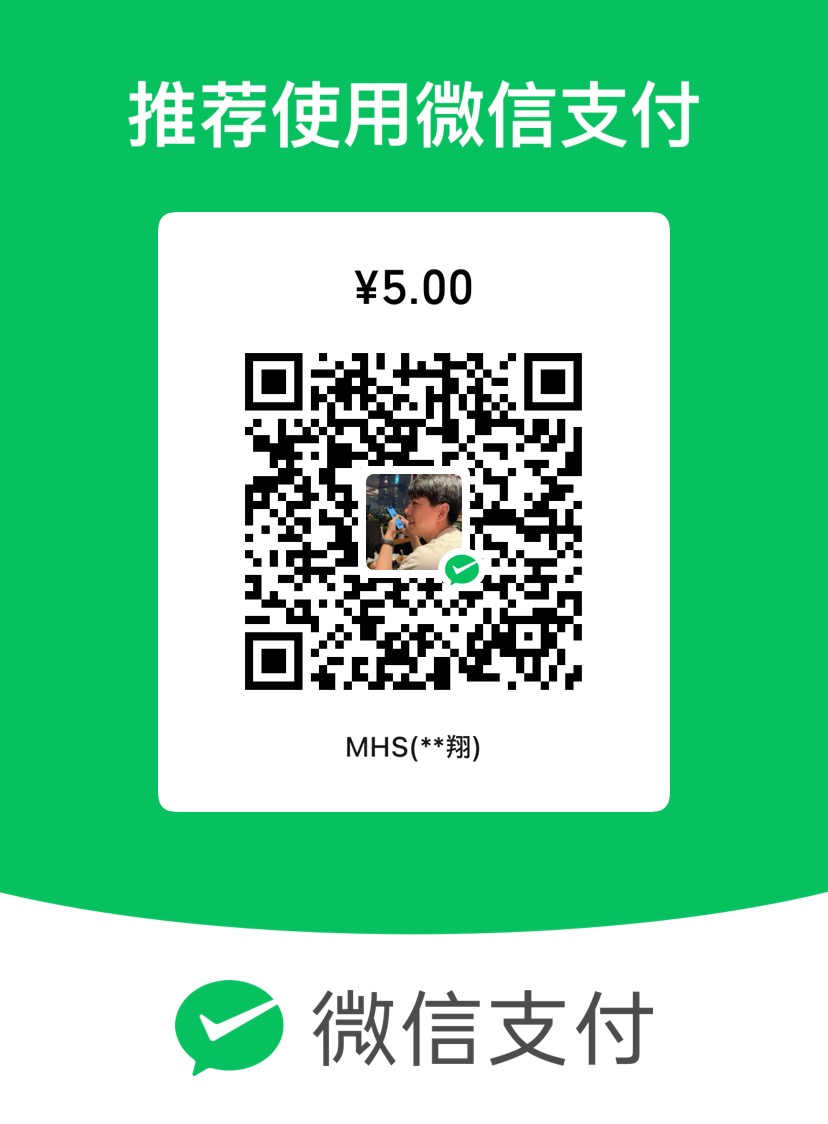
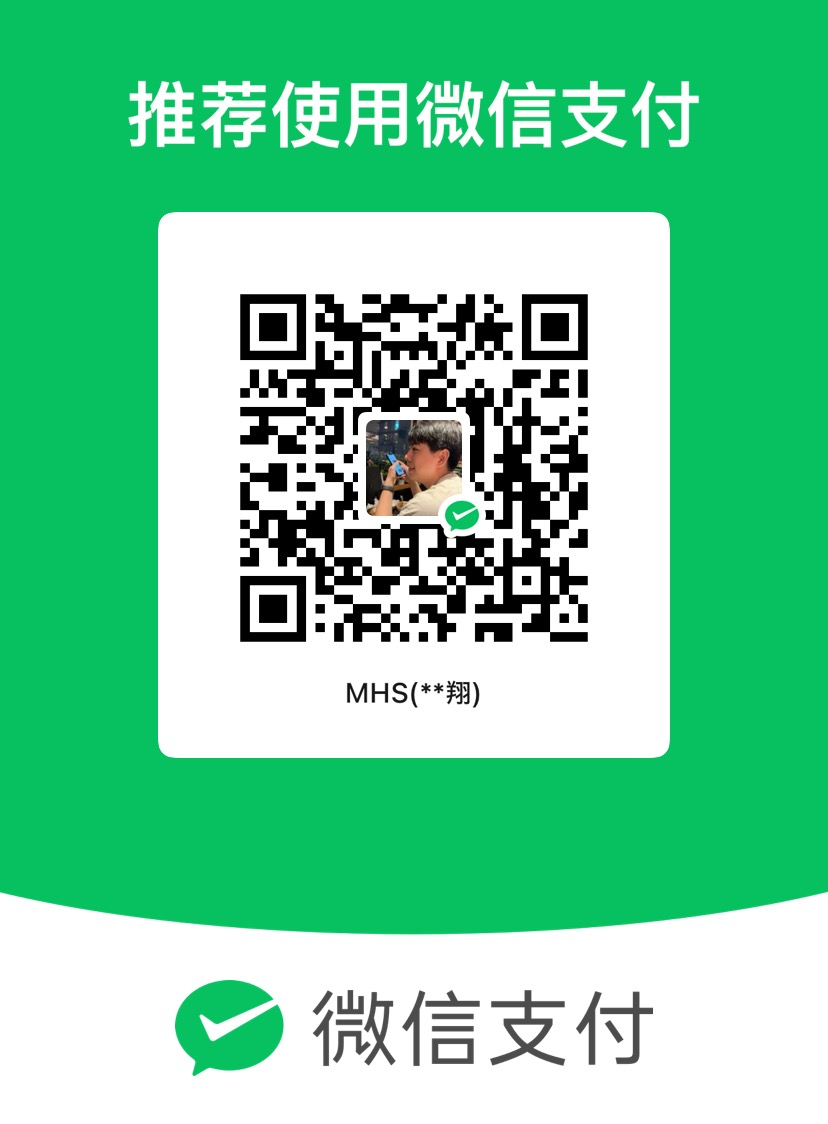
feat: 收款码换为不定额码——支持者可自由设置金额
- public/wechat-qr.jpg 更新；img 加 ?v= 哈希（换码后穿透 SW 运行时缓存并被首装预缓存）
- 弹层文案：加「金额随意，心意最重要」，alt 改「金额自定」；测试 33/33

Changed region(s): [[0.2717, 0.218, 0.7246, 0.6228], [0.1812, 0.6539, 0.8152, 0.7473]]

diff --git a/index.html b/index.html
@@ -459,8 +459,8 @@
   <div class="qr-card" role="dialog" aria-label="微信收款码">
     <button class="qr-close" id="qr-close" type="button" aria-label="关闭">×</button>
     <h3>❤ 感谢支持！</h3>
-    <img src="public/wechat-qr.jpg" alt="微信收款码（5 元）">
-    <p class="qr-hint">手机端：长按保存图片 → 微信「扫一扫」→ 相册选择<br>桌面端：打开微信「扫一扫」对准即可</p>
+    <img src="public/wechat-qr.jpg?v=4ece9561" alt="微信收款码（金额自定）">
+    <p class="qr-hint">金额随意，心意最重要<br>手机端：长按保存图片 → 微信「扫一扫」→ 相册选择<br>桌面端：打开微信「扫一扫」对准即可</p>
   </div>
 </div>
 
